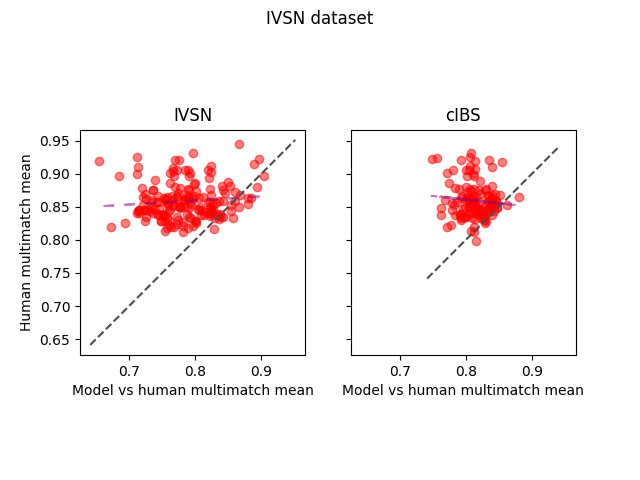
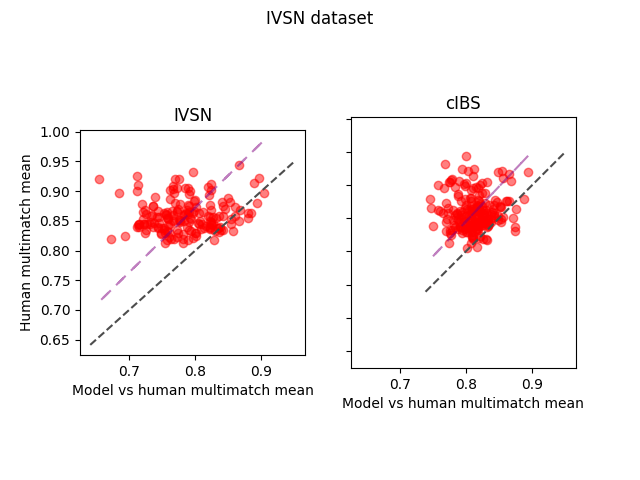
Regresión lineal en multimatch corregida

diff --git a/Metrics/multimatch.py b/Metrics/multimatch.py
@@ -57,8 +57,9 @@ class Multimatch:
         lims = [np.min([ax.get_xlim(), ax.get_ylim()]), np.max([ax.get_xlim(), ax.get_ylim()])]
         ax.plot(lims, lims, linestyle='dashed', c='.3')
         # Plot linear regression
-        m, b = np.polyfit(x_vector, y_vector, 1)
-        ax.plot(x_vector, m * np.array(x_vector) + b, linestyle=(0, (5, 5)), color='purple', alpha=0.5)
+        x_linear   = np.array(x_vector)[:, np.newaxis]
+        m, _, _, _ = np.linalg.lstsq(x_linear, y_vector, rcond=None)
+        ax.plot(x_vector, m * x_linear, linestyle=(0, (5, 5)), color='purple', alpha=0.5)
 
         ax.set_aspect(1.0 / ax.get_data_ratio(), adjustable='box')
         ax.set_title(model_name)
